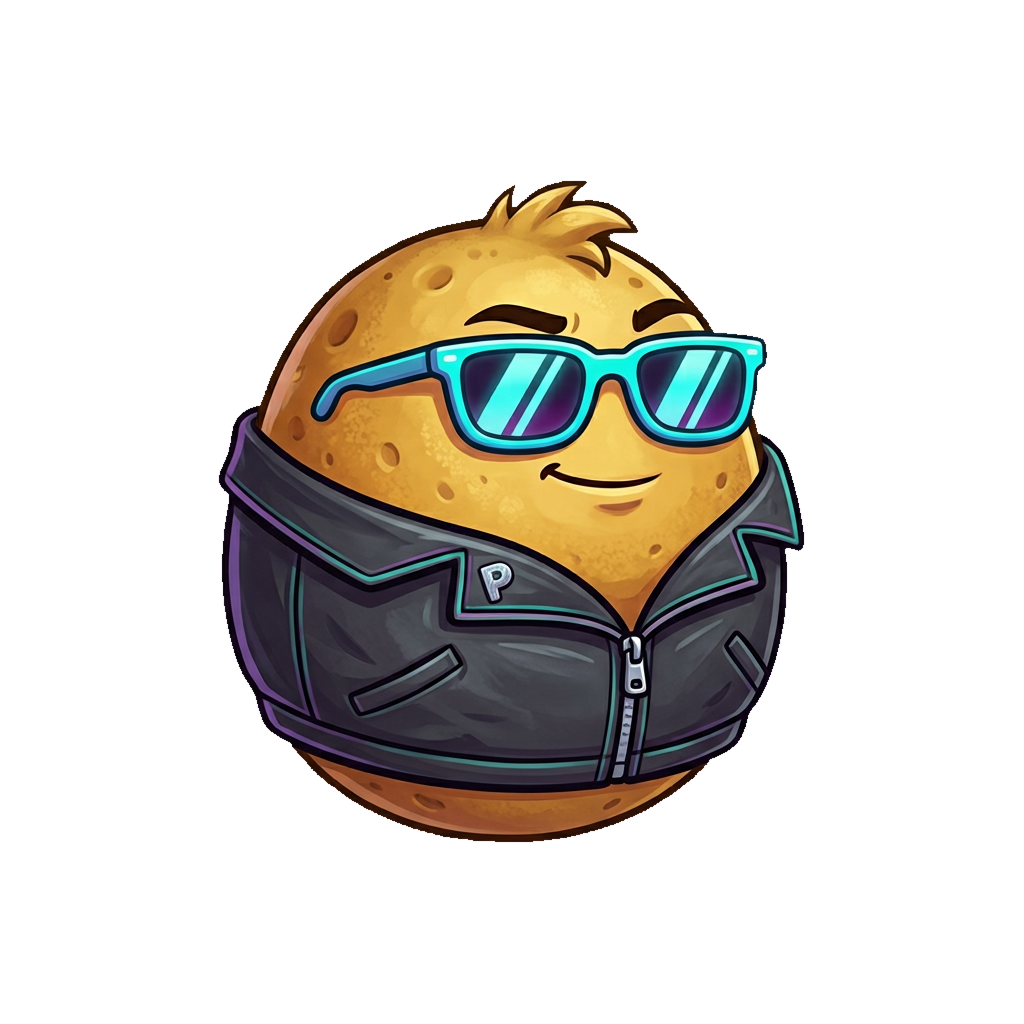
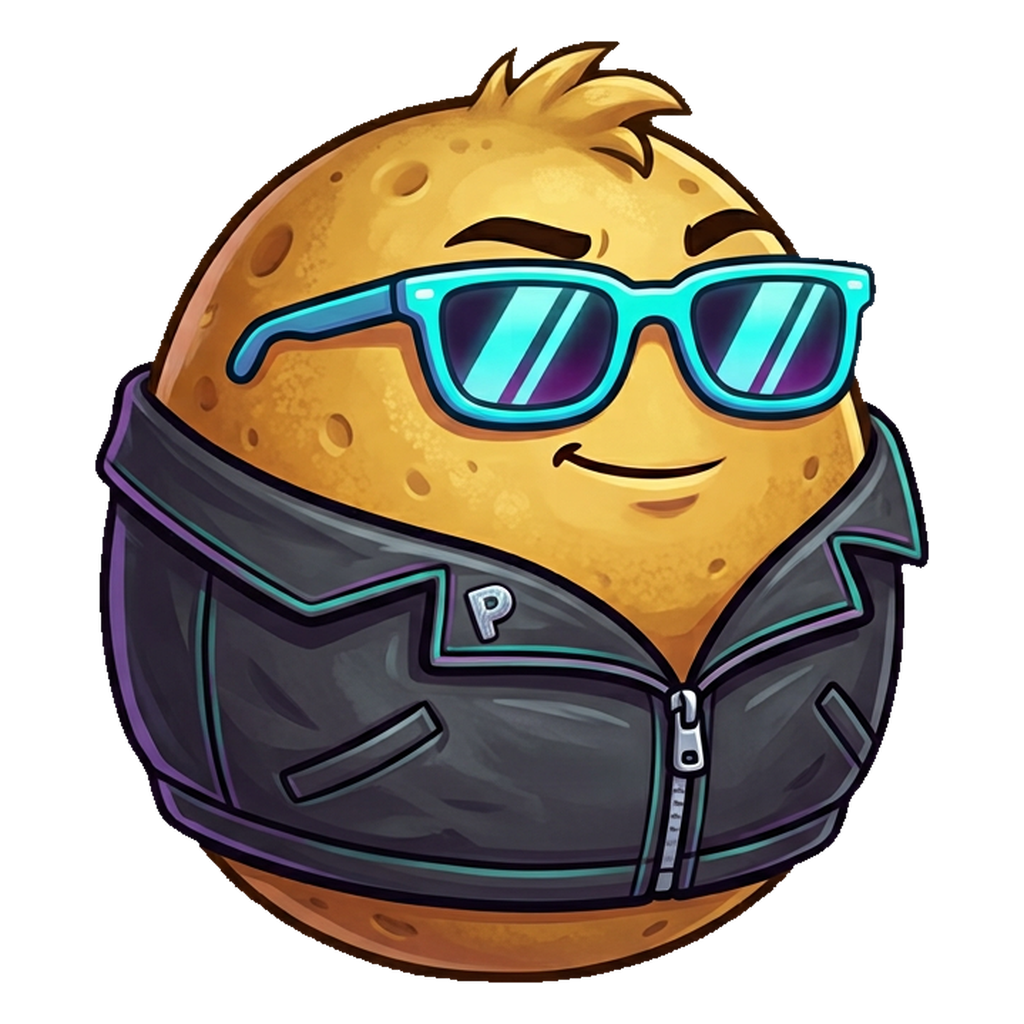
Art: clean enclosed chroma gaps and verify native character store rendering

diff --git a/scripts/import_potato_body.py b/scripts/import_potato_body.py
@@ -1,0 +1,40 @@
+#!/usr/bin/env python3
+"""One-time import of generated art, NOT part of the repeatable sheet bake.
+Accept real RGBA or solid green chroma. Inspect the result before publishing;
+never re-matte the canonical source during rebuilds.
+"""
+import argparse
+from pathlib import Path
+import numpy as np
+from PIL import Image, ImageFilter
+from build_potato_skins import POTATOES, ROOT
+
+parser = argparse.ArgumentParser(description=__doc__)
+parser.add_argument('image', type=Path)
+parser.add_argument('character', choices=POTATOES)
+args = parser.parse_args()
+im = Image.open(args.image).convert('RGBA')
+a = np.array(im).astype(np.int16)
+if a[..., 3].min() == 255:
+    # Remove chroma everywhere, including enclosed gaps between hair strands.
+    # Our agreed costumes use cyan/pink, not chroma green.
+    chroma = (a[..., 1] > a[..., 0]+28) & (a[..., 1] > a[..., 2]+28)
+    if chroma.mean() < .2:
+        raise SystemExit('No alpha or solid green background detected; manual matting required')
+    alpha = Image.fromarray(np.where(chroma, 0, 255).astype('uint8'))
+    alpha = alpha.filter(ImageFilter.MinFilter(5)).filter(ImageFilter.GaussianBlur(.35))
+    a[..., 3] = np.array(alpha)
+    edge = a[..., 3] < 250
+    a[edge, 1] = np.minimum(a[edge, 1], np.maximum(a[edge, 0], a[edge, 2]))
+    im = Image.fromarray(a.astype('uint8'))
+box = im.getchannel('A').getbbox()
+if box is None:
+    raise SystemExit('Empty foreground')
+im = im.crop(box)
+scale = 944/max(im.size)
+im = im.resize((round(im.width*scale), round(im.height*scale)), Image.Resampling.LANCZOS)
+normalized = Image.new('RGBA', (1024, 1024))
+normalized.paste(im, ((1024-im.width)//2, (1024-im.height)//2))
+path = ROOT / f'assets-src/potato/generated_bodies/{args.character}.png'
+normalized.save(path)
+print(path)

diff --git a/scripts/test_native_client.py b/scripts/test_native_client.py
@@ -35,6 +35,11 @@ for name, width, height in [('desktop', 1280, 800), ('portrait', 480, 900)]:
                 time.sleep(3)
                 assert process.poll() is None, 'client crashed while rendering'
                 subprocess.run(['import','-window',window,str(output/f'{name}.png')],check=True,timeout=10)
+                subprocess.run(['xdotool','windowfocus','--sync',window],check=True)
+                subprocess.run(['xdotool','key','c'],check=True)
+                time.sleep(2)
+                assert process.poll() is None, 'client crashed while opening character store'
+                subprocess.run(['import','-window',window,str(output/f'{name}-store.png')],check=True,timeout=10)
                 # Ask the application to close rather than leaving an orphan.
                 subprocess.run(['xdotool','windowclose',window], check=False)
                 try: process.wait(timeout=8)
